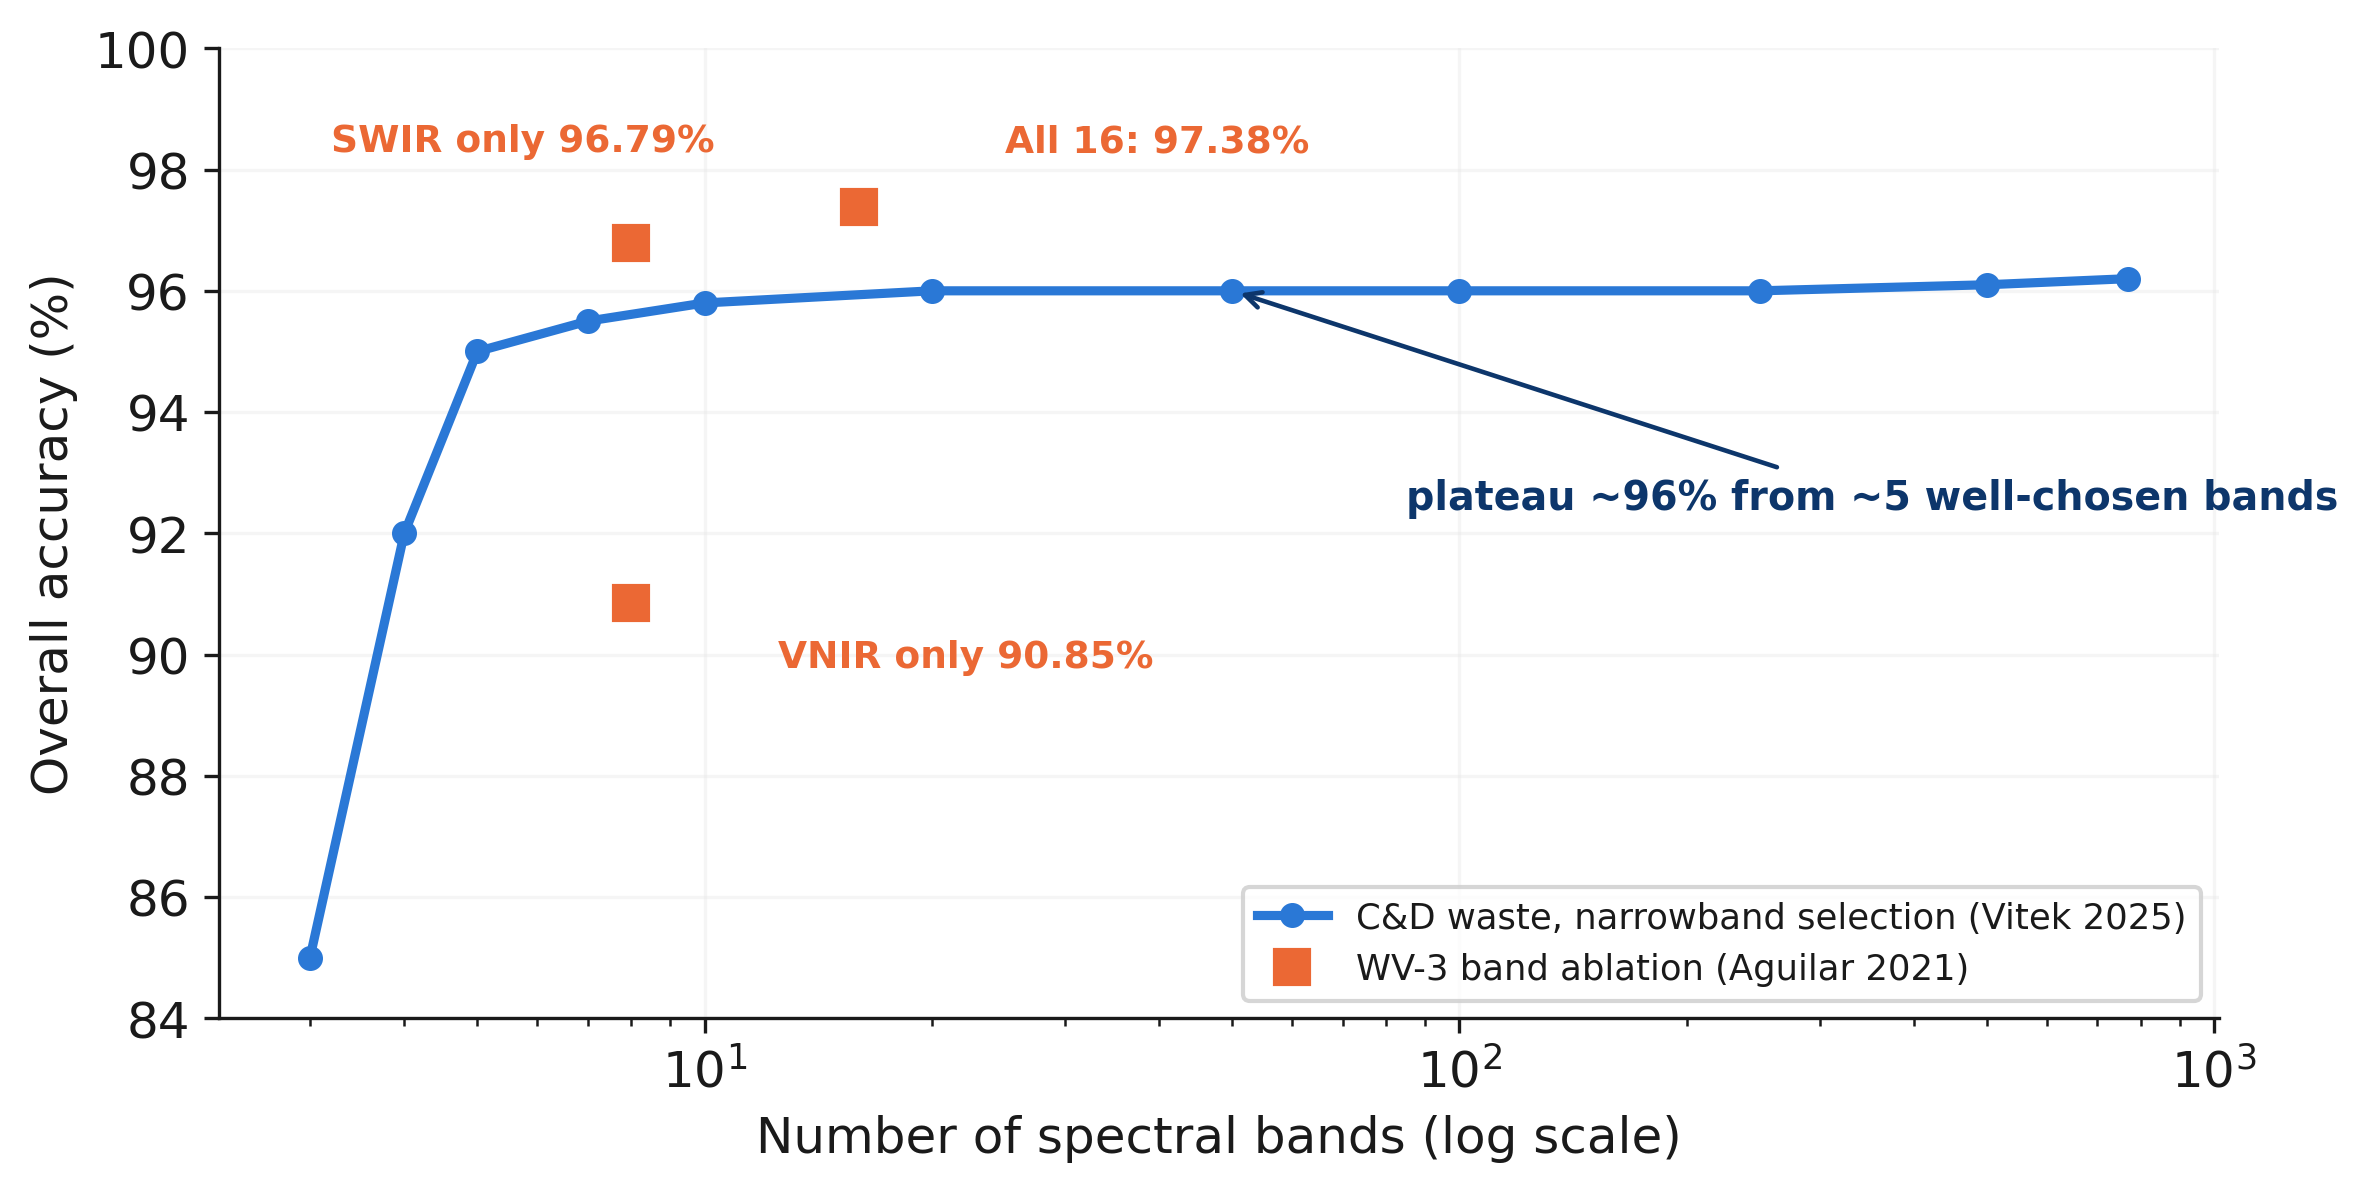
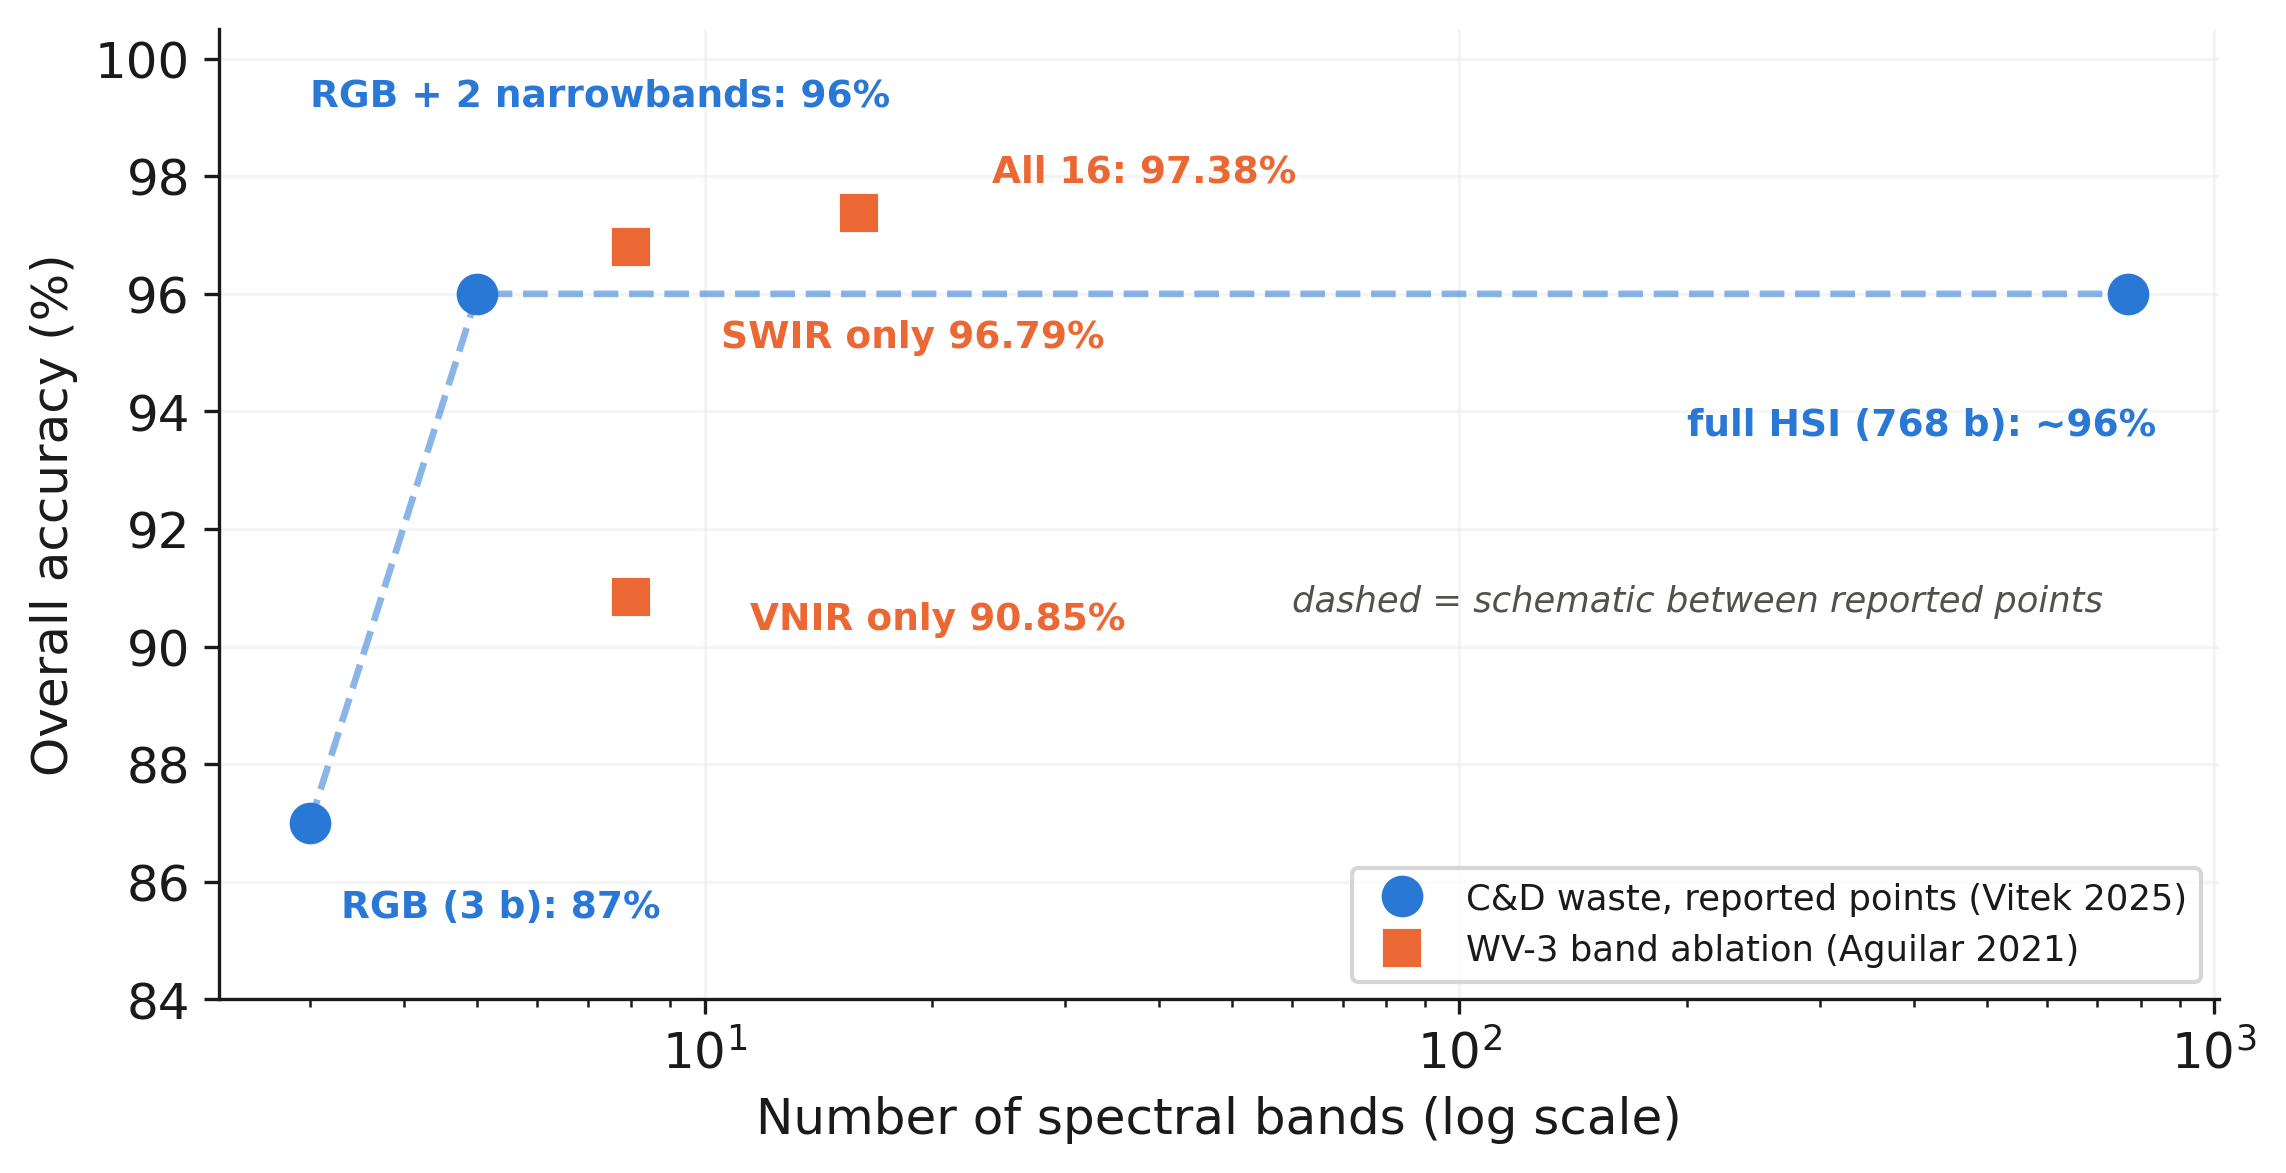
deck: bottom-left slide numbers + figure-correctness pass
Numbers: uniform bottom-left page number on every slide except the title
(original centered placeholders removed).
Figure correctness (reviewed each figure against the verified notes):
- fingerprint and rgb-fails rebuilt from splib07a WITHOUT the stale
  'SuperDove VNIR' framing (original photos preserved); validated colors,
  staggered diagnostic-feature labels; rgb-fails normalised to visible
  mean to show iso-chromaticity honestly.
- sensor radar: revisit now vendor capability (WV-3 <1 d, PNeo daily,
  SuperDove daily) with explicit footnote — the 3/2-day guesses removed.
- bands-plateau: only Vitek's reported points (87/96/~96), dashed segment
  declared 'schematic between reported points'; Aguilar 2021 kept as
  historical data points; label collisions fixed.

diff --git a/assets/deck_v6/figs_color.py b/assets/deck_v6/figs_color.py
@@ -76,9 +76,9 @@ for sp in ax.spines.values(): sp.set_visible(False)
 fig.savefig(OUT/"band_material_map.png",bbox_inches="tight"); plt.close(fig)
 
 # 3 ── sensor radar (thesis pair emphasised) ──────────────────────────
-sensors=[("WorldView-3",[1/1.24,np.log10(16),1/3.0],WV3,"-",2.8,"^",0.10),
-         ("Pleiades Neo",[1/1.2,np.log10(6),1/2.0],PNEO,"-",2.8,"o",0.10),
-         ("SuperDove",[1/3.0,np.log10(8),1/0.5],SDV,"-",1.6,"s",0.0),
+sensors=[("WorldView-3",[1/1.24,np.log10(16),1/1.0],WV3,"-",2.8,"^",0.10),
+         ("Pleiades Neo",[1/1.2,np.log10(6),1/1.0],PNEO,"-",2.8,"o",0.10),
+         ("SuperDove",[1/3.0,np.log10(8),1/1.0],SDV,"-",1.6,"s",0.0),
          ("Sentinel-2",[1/10.0,np.log10(13),1/5.0],CTX1,"--",1.4,"D",0.0),
          ("EnMAP",[1/30.0,np.log10(228),1/27.0],CTX2,":",1.6,"v",0.0)]
 vals=np.array([x[1] for x in sensors],float); norm=vals/vals.max(axis=0)
@@ -93,7 +93,7 @@ for (name,_,col,ls,lw,mk,fa),nv in zip(sensors,norm):
     ax.plot(ang,d,color=col,ls=ls,lw=lw,marker=mk,ms=7,label=name)
     if fa: ax.fill(ang,d,color=col,alpha=fa)
 leg=ax.legend(loc="upper right",bbox_to_anchor=(1.40,1.10),fontsize=9.5,frameon=True,edgecolor="#CCCCCC")
-fig.text(0.5,0.015,"Outer ring = better. Spatial 1/GSD (log) - bands log10(N) - revisit 1/days (log). Thesis pair emphasised.",
+fig.text(0.5,0.015,"Outer ring = better. Spatial 1/GSD - bands log10(N) - revisit 1/days (vendor capability: WV-3 <1 d, PNeo daily, SuperDove daily).",
     ha="center",fontsize=8.5,style="italic",color=MUT)
 fig.savefig(OUT/"sensor_radar.png",bbox_inches="tight"); plt.close(fig)
 
@@ -114,17 +114,20 @@ fig.savefig(OUT/"aguilar_bars.png"); plt.close(fig)
 
 # 5 ── bands plateau ──────────────────────────────────────────────────
 fig,ax=plt.subplots(figsize=(8.6,4.2))
-nb=[3,4,5,7,10,20,50,100,250,500,768]
-oa=[85.0,92.0,95.0,95.5,95.8,96.0,96.0,96.0,96.0,96.1,96.2]
-ax.semilogx(nb,oa,color=CON,lw=2.2,marker="o",ms=5,label="C&D waste, narrowband selection (Vitek 2025)")
+nbv=[3,5,768]; oav=[87.0,96.0,96.0]
+ax.semilogx(nbv,oav,color=CON,lw=0,marker="o",ms=9,label="C&D waste, reported points (Vitek 2025)")
+ax.semilogx([3,5,768],[87.0,96.0,96.0],color=CON,lw=1.6,ls="--",alpha=0.55)
+ax.annotate("RGB (3 b): 87%",xy=(3,87),xytext=(3.3,85.4),fontsize=9,color=CON,fontweight="bold")
+ax.annotate("RGB + 2 narrowbands: 96%",xy=(5,96),xytext=(3.0,99.2),fontsize=9,color=CON,fontweight="bold")
+ax.annotate("full HSI (768 b): ~96%",xy=(768,96),xytext=(200,93.6),fontsize=9,color=CON,fontweight="bold")
 ax.plot([8,8,16],[90.85,96.79,97.38],marker="s",ms=8,color=PLA,ls="none",label="WV-3 band ablation (Aguilar 2021)")
-ax.annotate("VNIR only 90.85%",xy=(8,90.85),xytext=(12.5,89.8),fontsize=9,color=PLA,fontweight="bold")
-ax.annotate("SWIR only 96.79%",xy=(8,96.79),xytext=(3.2,98.3),fontsize=9,color=PLA,fontweight="bold")
-ax.annotate("All 16: 97.38%",xy=(16,97.38),xytext=(25,98.3),fontsize=9,color=PLA,fontweight="bold")
-ax.annotate("plateau ~96% from ~5 well-chosen bands",xy=(50,96.0),xytext=(85,92.4),fontsize=9.5,
-    color="#0d366b",fontweight="bold",arrowprops=dict(arrowstyle="->",color="#0d366b",lw=1.1))
+ax.annotate("VNIR only 90.85%",xy=(8,90.85),xytext=(11.5,90.3),fontsize=9,color=PLA,fontweight="bold")
+ax.annotate("SWIR only 96.79%",xy=(8,96.79),xytext=(10.5,95.1),fontsize=9,color=PLA,fontweight="bold")
+ax.annotate("All 16: 97.38%",xy=(16,97.38),xytext=(24,97.9),fontsize=9,color=PLA,fontweight="bold")
+ax.annotate("dashed = schematic between reported points",xy=(60,96.0),xytext=(60,90.6),fontsize=8.5,
+    color=MUT,style="italic")
 ax.set_xlabel("Number of spectral bands (log scale)"); ax.set_ylabel("Overall accuracy (%)")
-ax.set_ylim(84,100)
+ax.set_ylim(84,100.5)
 ax.legend(loc="lower right",frameon=True,fontsize=8.5,edgecolor="#CCCCCC")
 for sp in ("top","right"): ax.spines[sp].set_visible(False)
 ax.grid(alpha=0.4,color=GRID)
@@ -175,3 +178,59 @@ for sp in ("top","right"): ax.spines[sp].set_visible(False)
 ax.grid(alpha=0.3,color=GRID)
 fig.savefig(OUT/"evidence_timeline.png"); plt.close(fig)
 print("timeline v2 done")
+
+VEG="#008300"
+# 7 ── fingerprint (replaces the SuperDove-era original) ───────────────
+mats4=[("Green vegetation","Vegetation",VEG,"-"),
+       ("HDPE (white opaque)","Plastic (HDPE)",PLA,"-"),
+       ("Concrete (road)","Concrete",CON,"-"),
+       ("Chrysotile (asbestos)","Asbestos (chrysotile)",ASB,"-")]
+fig,ax=plt.subplots(figsize=(10.2,4.6))
+ax.axvspan(400,1000,color="#EAF2FB",zorder=0)
+ax.axvspan(1000,2500,color="#FBF3EA",zorder=0)
+ends={}
+for nm,lab,col,ls in mats4:
+    fp,wt,_=config.SPECTRA[nm]; wl,r=load_spectrum(ZIP,fp,wt)
+    wl=wl*1000.0 if np.nanmax(wl)<100 else wl
+    m=~np.isnan(r)&(r>-1.0)&(wl>=400)&(wl<=2500)
+    ax.plot(wl[m],r[m],color=col,ls=ls,lw=2.2,label=lab)
+    ends[lab]=(wl[m][-1],r[m][-1],col)
+off={"Vegetation":-0.01,"Plastic (HDPE)":0.03,"Concrete":0.0,"Asbestos (chrysotile)":0.0}
+for lab,(x,y,col) in ends.items():
+    ax.annotate(lab,xy=(x,y),xytext=(6,off.get(lab,0)*300),textcoords="offset points",
+                fontsize=9.5,color=col,fontweight="bold",va="center")
+ax.text(700,1.06,"VNIR",fontsize=11,fontweight="bold",color=CON,ha="center")
+ax.text(1750,1.06,"SWIR - chemistry-diagnostic",fontsize=11,fontweight="bold",color="#B06A2A",ha="center")
+for x0,lab,col,yl in [(680,"Chl 0.68 um",VEG,0.20),(1730,"C-H 1.73 um",PLA,0.05),(2200,"Al-OH 2.20 um",CON,0.44),(2330,"Mg-OH 2.33 um",ASB,0.55)]:
+    ax.axvline(x0,color=col,lw=0.8,ls=":",alpha=0.7)
+    ax.annotate(lab,xy=(x0,yl),xytext=(-4,0),textcoords="offset points",fontsize=8,color=col,ha="right",va="center",
+                bbox=dict(boxstyle="round,pad=0.15",fc="white",ec=col,lw=0.5,alpha=0.9))
+ax.set_xlim(400,2720); ax.set_ylim(0,1.12)
+ax.set_xlabel("Wavelength (nm)"); ax.set_ylabel("Reflectance")
+for sp in ("top","right"): ax.spines[sp].set_visible(False)
+ax.grid(alpha=0.3,color=GRID)
+fig.savefig(OUT/"fingerprint.png"); plt.close(fig)
+
+# 8 ── rgb-fails curves (replaces the SuperDove-era original) ──────────
+# normalised to visible mean: same 'colour' shape in VIS, separable in SWIR
+fig,ax=plt.subplots(figsize=(7.4,4.6))
+ax.axvspan(400,700,color="#EDEDED",zorder=0)
+trio=[("HDPE (white opaque)","HDPE plastic film",PLA,"-"),
+      ("Chrysotile (asbestos)","Asbestos-cement roof",ASB,"--"),
+      ("Concrete (road)","Light concrete slab",CON,":")]
+for nm,lab,col,ls in trio:
+    fp,wt,_=config.SPECTRA[nm]; wl,r=load_spectrum(ZIP,fp,wt)
+    wl=wl*1000.0 if np.nanmax(wl)<100 else wl
+    m=~np.isnan(r)&(r>-1.0)&(wl>=400)&(wl<=2500)
+    vis=r[m][(wl[m]>=400)&(wl[m]<=700)].mean()
+    ax.plot(wl[m],r[m]/vis,color=col,ls=ls,lw=2.2,label=lab)
+ax.set_ylim(0,1.45)
+ax.text(550,0.30,"visible:"+NL+"same flat 'grey'",fontsize=9.5,ha="center",color="#555555",fontweight="bold")
+ax.annotate("SWIR: the three separate",xy=(1980,0.52),fontsize=10,color=INK,fontweight="bold",ha="center")
+ax.set_xlim(400,2500); ax.set_xlabel("Wavelength (nm)")
+ax.set_ylabel("Reflectance (normalised to visible mean)")
+ax.legend(loc="upper right",frameon=True,fontsize=9,edgecolor="#CCCCCC")
+for sp in ("top","right"): ax.spines[sp].set_visible(False)
+ax.grid(alpha=0.3,color=GRID)
+fig.savefig(OUT/"rgb_fails.png"); plt.close(fig)
+print("fingerprint + rgb_fails done")

diff --git a/assets/deck_v6/edit_deck.py b/assets/deck_v6/edit_deck.py
@@ -89,6 +89,20 @@ def replace_pic(slide, path):
             return True
     return False
 
+def replace_biggest_pic(slide, path):
+    from pptx.enum.shapes import MSO_SHAPE_TYPE
+    from PIL import Image
+    pics=[sh for sh in slide.shapes if sh.shape_type==MSO_SHAPE_TYPE.PICTURE]
+    if not pics: return False
+    sh=max(pics, key=lambda x: x.width*x.height)
+    L,T,Wb,Hb=sh.left,sh.top,sh.width,sh.height
+    del_shape(sh)
+    iw,ih=Image.open(path).size; ar=iw/ih
+    W=Wb; H=int(W/ar)
+    if H>Hb: H=Hb; W=int(H*ar)
+    slide.shapes.add_picture(path, L+(Wb-W)//2, T+(Hb-H)//2, width=W, height=H)
+    return True
+
 def add_slide():
     s=prs.slides.add_slide(prs.slide_layouts[10])  # BLANK
     # strip any leftover placeholders
@@ -243,6 +257,7 @@ from pptx.enum.shapes import MSO_SHAPE_TYPE as _MST13
 for _sh in list(S[13].shapes):
     if _sh.shape_type==_MST13.PICTURE:
         _sh.top=IN(2.68); _sh.left=IN(2.10); _sh.width=IN(5.8); _sh.height=IN(2.05)
+replace_biggest_pic(S[6], os.path.join(CL,"rgb_fails.png"))
 # S15 SuperDove → Honest caveat (+ swir8 figure)
 sd=S[14]
 set_title(sd,"Honest limit: resolution is split between texture and chemistry")
@@ -375,7 +390,7 @@ def _extract_pic(slide, outpath):
 _fp=os.path.join(BW,"_fingerprint.png"); _sn=os.path.join(BW,"_sensor.png")
 _fpg=_extract_pic(S[5], _fp); _sng=_extract_pic(S[8], _sn)
 nf=add_slide(); n_title(nf,"Every material has a spectral fingerprint")
-if _fpg: nf.shapes.add_picture(_fp, _fpg[0], _fpg[1], width=_fpg[2], height=_fpg[3])
+n_img(nf, os.path.join(CL,"fingerprint.png"), left=0.55, top=1.10, w=8.9, h=4.0)
 n_foot(nf,"USGS splib07a (Kokaly et al., 2017). Diagnostic features: Cilia 2015, Aguilar 2025.")
 ns=add_slide(); n_title(ns,"The sensor trade-off: spatial x spectral x revisit")
 n_body(ns,[
@@ -400,15 +415,18 @@ desired=[ids[i] for i in order]
 for sid in ids: sldIdLst.remove(sid)
 for sid in desired: sldIdLst.append(sid)
 
-# stamp page numbers on slides without a slide-number placeholder
+# uniform page numbers: bottom-LEFT on every slide except the title
 from pptx.enum.text import PP_ALIGN as _AL
 for pos,sl in enumerate(prs.slides,1):
-    hasnum=any(sh.is_placeholder and sh.placeholder_format.type is not None and "SLIDE_NUMBER" in str(sh.placeholder_format.type) for sh in sl.shapes)
-    if not hasnum:
-        tb=sl.shapes.add_textbox(IN(4.12),IN(5.21),IN(1.75),IN(0.30))
-        tf=tb.text_frame; tf.word_wrap=False; r=tf.paragraphs[0].add_run(); r.text=str(pos)
-        tf.paragraphs[0].alignment=_AL.CENTER
-        r.font.name=F; r.font.size=Pt(9); r.font.color.rgb=GREY
+    for sh in list(sl.shapes):
+        if sh.is_placeholder and sh.placeholder_format.type is not None and "SLIDE_NUMBER" in str(sh.placeholder_format.type):
+            del_shape(sh)
+    if pos==1: continue
+    tb=sl.shapes.add_textbox(IN(0.10),IN(5.28),IN(0.45),IN(0.28))
+    tf=tb.text_frame; tf.word_wrap=False
+    pr=tf.paragraphs[0]; pr.alignment=_AL.LEFT
+    r=pr.add_run(); r.text=str(pos)
+    r.font.name=F; r.font.size=Pt(9); r.font.color.rgb=GREY
 
 prs.save(OUT)
 import shutil; shutil.copy(OUT, os.path.expanduser("~/Downloads/ultime_slide_v2.pptx"))